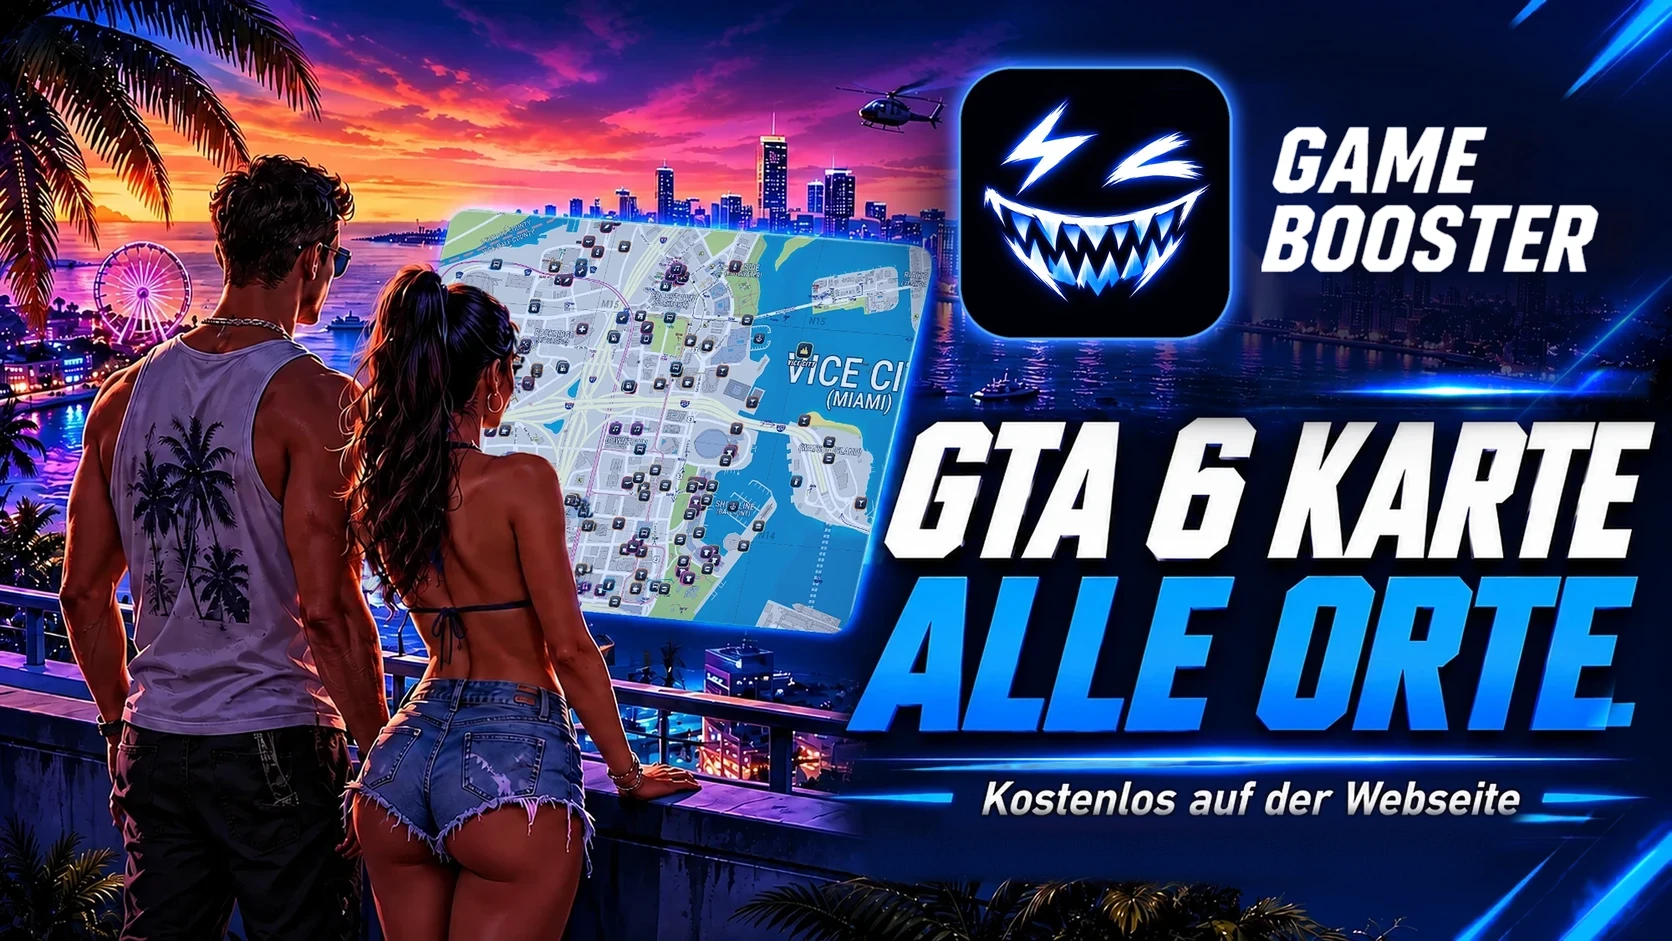
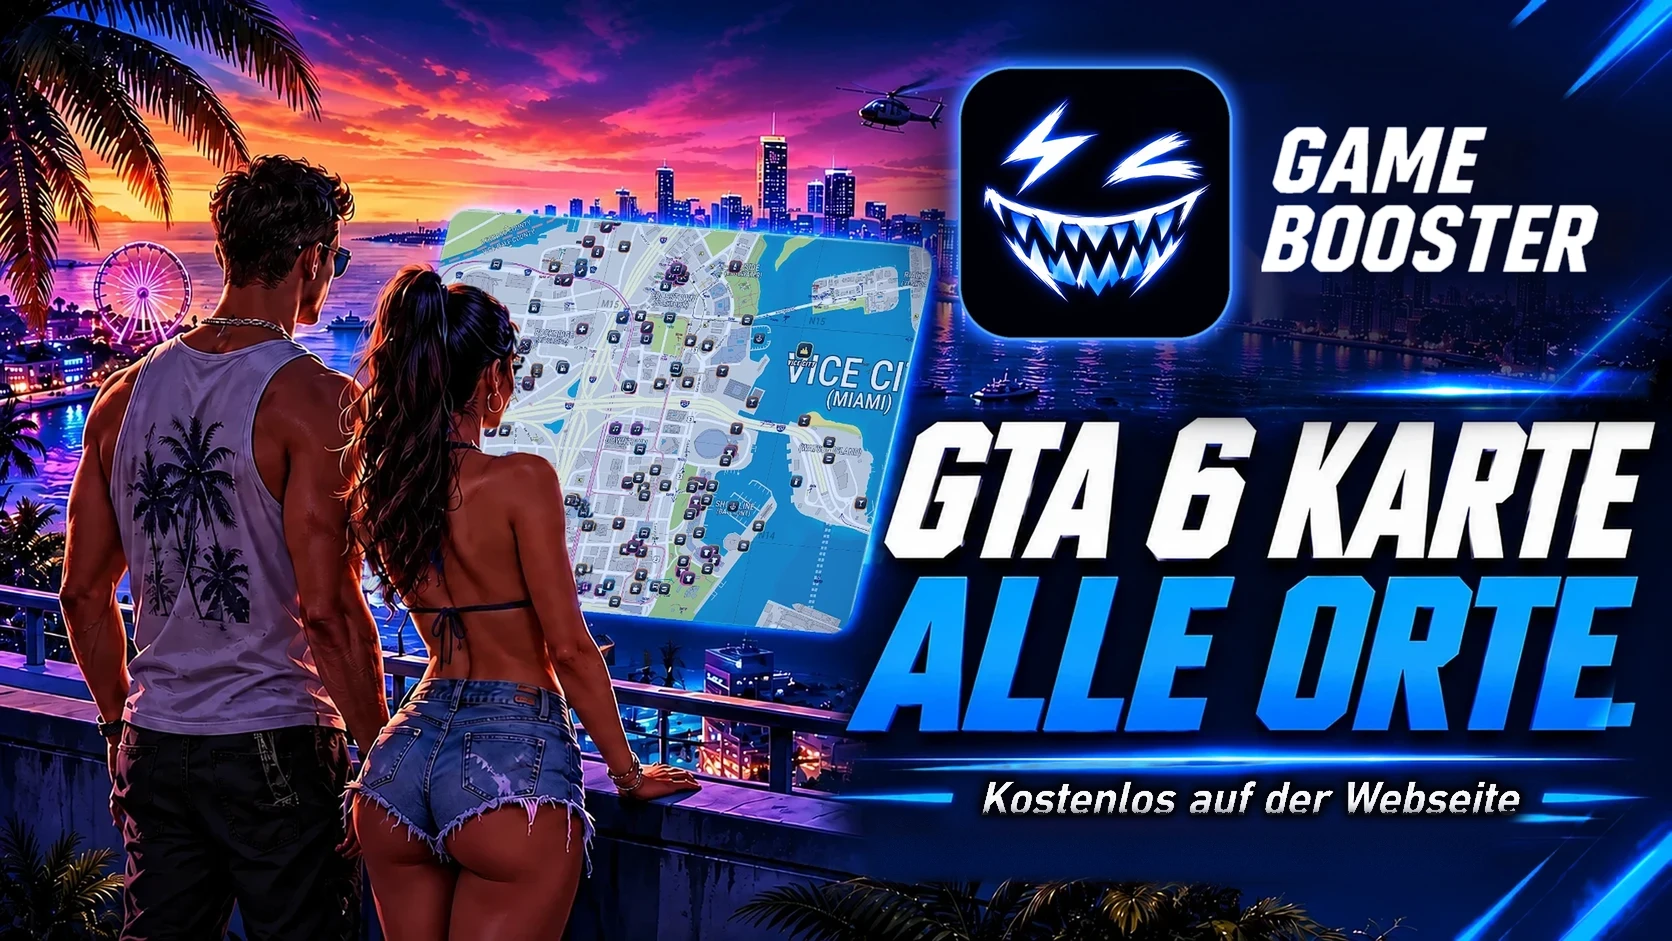
Webseite: GTA-6-Kachel Schatten hinter Untertitel-Buchstaben

Changed region(s): [[0.5598, 0.8013, 0.933, 0.8937]]

diff --git a/js/index1.js b/js/index1.js
@@ -123,7 +123,7 @@ document.getElementById("shopGrid").innerHTML = SHOP.map(([a, t, s, p, on]) => I
 document.getElementById("shopGrid").insertAdjacentHTML("beforeend", `<div class="sp-w"><div style="position:relative"><a class="sp-cr2 wfb" href="/werbefrei" title="Zur Werbefrei-Seite"><img src="img/werbefrei.png" alt="" width="22" height="22" style="border-radius:5px;display:block"><span><small>Erweiterung</small><b>GB</b> WERBEFREI</span></a><a class="sc wf" href="/werbefrei"><img class="bgx" src="img/werbefrei-karte.webp?v=3" alt="Werbefrei" style="object-fit:cover" loading="lazy"><span class="st2" style="top:10px;bottom:auto">Neu</span></a></div>
   <div class="sp-t">Werbefrei <em class="wfe">Streams &amp; Videos ohne Werbung</em></div></div>`);
 // GTA 6 Karte (gratis, eigene Seite). Kartendaten-Hinweis GTABase bleibt immer drin
-document.getElementById("shopGrid").insertAdjacentHTML("beforeend", `<div class="sp-w"><div style="position:relative"><a class="sp-cr2" href="https://www.gtabase.com/de/gta-6/karte/" target="_blank" rel="noopener" title="Kartendaten von GTABase"><img src="img/gtabase-logo.webp" alt="" style="height:14px;width:auto;display:block"><span><small>Kartendaten</small><b>GTA</b> BASE</span></a><a class="sc" href="/gta6"><img class="bgx" src="img/gta6-karte.webp?v=17" alt="GTA 6 Karte" style="object-fit:cover" loading="lazy"><span class="st2" style="top:10px;bottom:auto">Gratis</span></a></div>
+document.getElementById("shopGrid").insertAdjacentHTML("beforeend", `<div class="sp-w"><div style="position:relative"><a class="sp-cr2" href="https://www.gtabase.com/de/gta-6/karte/" target="_blank" rel="noopener" title="Kartendaten von GTABase"><img src="img/gtabase-logo.webp" alt="" style="height:14px;width:auto;display:block"><span><small>Kartendaten</small><b>GTA</b> BASE</span></a><a class="sc" href="/gta6"><img class="bgx" src="img/gta6-karte.webp?v=18" alt="GTA 6 Karte" style="object-fit:cover" loading="lazy"><span class="st2" style="top:10px;bottom:auto">Gratis</span></a></div>
   <div class="sp-t">GTA 6 Karte <em>Alle Orte auf einer Karte</em></div></div>`);
 
 // PayPal direkt im Kauf-Fenster (Kunde bleibt auf der Seite).

diff --git a/index.html b/index.html
@@ -798,7 +798,7 @@ details{position:relative}details[open]{border-color:#2f4f8a}
 
 <script src="world.js?v=4"></script>
 <button type="button" id="toTop" aria-label="Nach oben"><svg viewBox="0 0 24 24" fill="none" stroke="currentColor" stroke-width="2.4" stroke-linecap="round" stroke-linejoin="round"><path d="M12 19V5M5.5 11.5 12 5l6.5 6.5"/></svg></button>
-<script src="js/index1.js?v=83"></script>
+<script src="js/index1.js?v=84"></script>
 <script src="js/index2.js?v=1"></script>
 <a class="petab" href="https://www.provenexpert.com/game-booster-vpn/zam6/" target="_blank" rel="noopener" aria-label="Game Booster VPN auf ProvenExpert bewerten"><b class="pst">★<br>★<br>★<br>★<br>★</b><span>Bewerte uns</span><small>auf ProvenExpert</small></a>
 <script src="js/features.js?v=9"></script>
